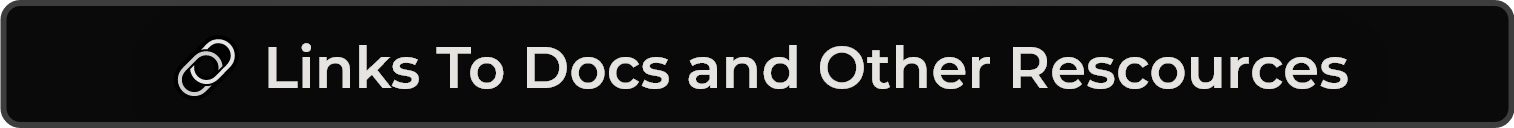
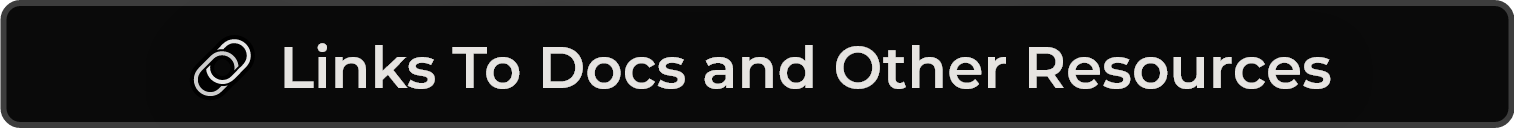
Added [🔗 Links To Docs and Other Resources] Page

Changed region(s): [[0.0931, 0.3125, 0.9003, 0.75]]

diff --git a/Pages/Links.md b/Pages/Links.md
@@ -1,0 +1,32 @@
+<h2>🔗 Links To Docs and Other Resources</h2>
+
+<br>
+
+<div align=center>
+
+<h3>🔗 Links to official documentation</h3>
+<p>
+<p><a href="https://midjourney.gitbook.io/docs/">Midjourney Documentation</a></p>
+<p><a href="https://www.midjourney.com/app/library/dictionary/">Midjourney Dictionary</a></p>
+<p><a href="https://www.midjourney.com/app/library/styles/">Midjourney Styles</a></p>
+</p>
+
+<br><br>
+
+<h3>🔗 Links to other references and tools</h3>
+<p>
+<p><a href="https://rexwang8.github.io/resource/ai/teapot">Understanding MidJourney Through Teapots by Bob</a></p>
+<p><a href="https://docs.google.com/spreadsheets/d/10i9Ip8tVSERAuMWbc6-H6BUFCoUGOQ91YzDvX--c4bk/edit?usp=sharing">Artist Visual Style Encyclopedia by Sincarnate</a></p>
+<p><a href="https://www.wikiart.org/en/paintings-by-style">Artwork Styles</a></p>
+<p><a href="https://mj.aihub.gg/">Midjourney Wiki by Mxrcy</a></p>
+<p><a href="https://promptomania.com/prompt-builder/">PromptoMania by WSzP</a></p>
+<p><a href="https://www.thedreamingstate.com/portfolio/art/prompter/">Prompter by Shane McGeehan</a></p>
+</p>
+
+</div>
+
+<br>
+<hr><!--------------->
+<div align="center">
+<h6><a href="https://github.com/willwulfken/MidJourney-Styles-and-Keywords-Reference/blob/main/README.md">⬅ Go Back To Home Page</a></h6>
+</div>
